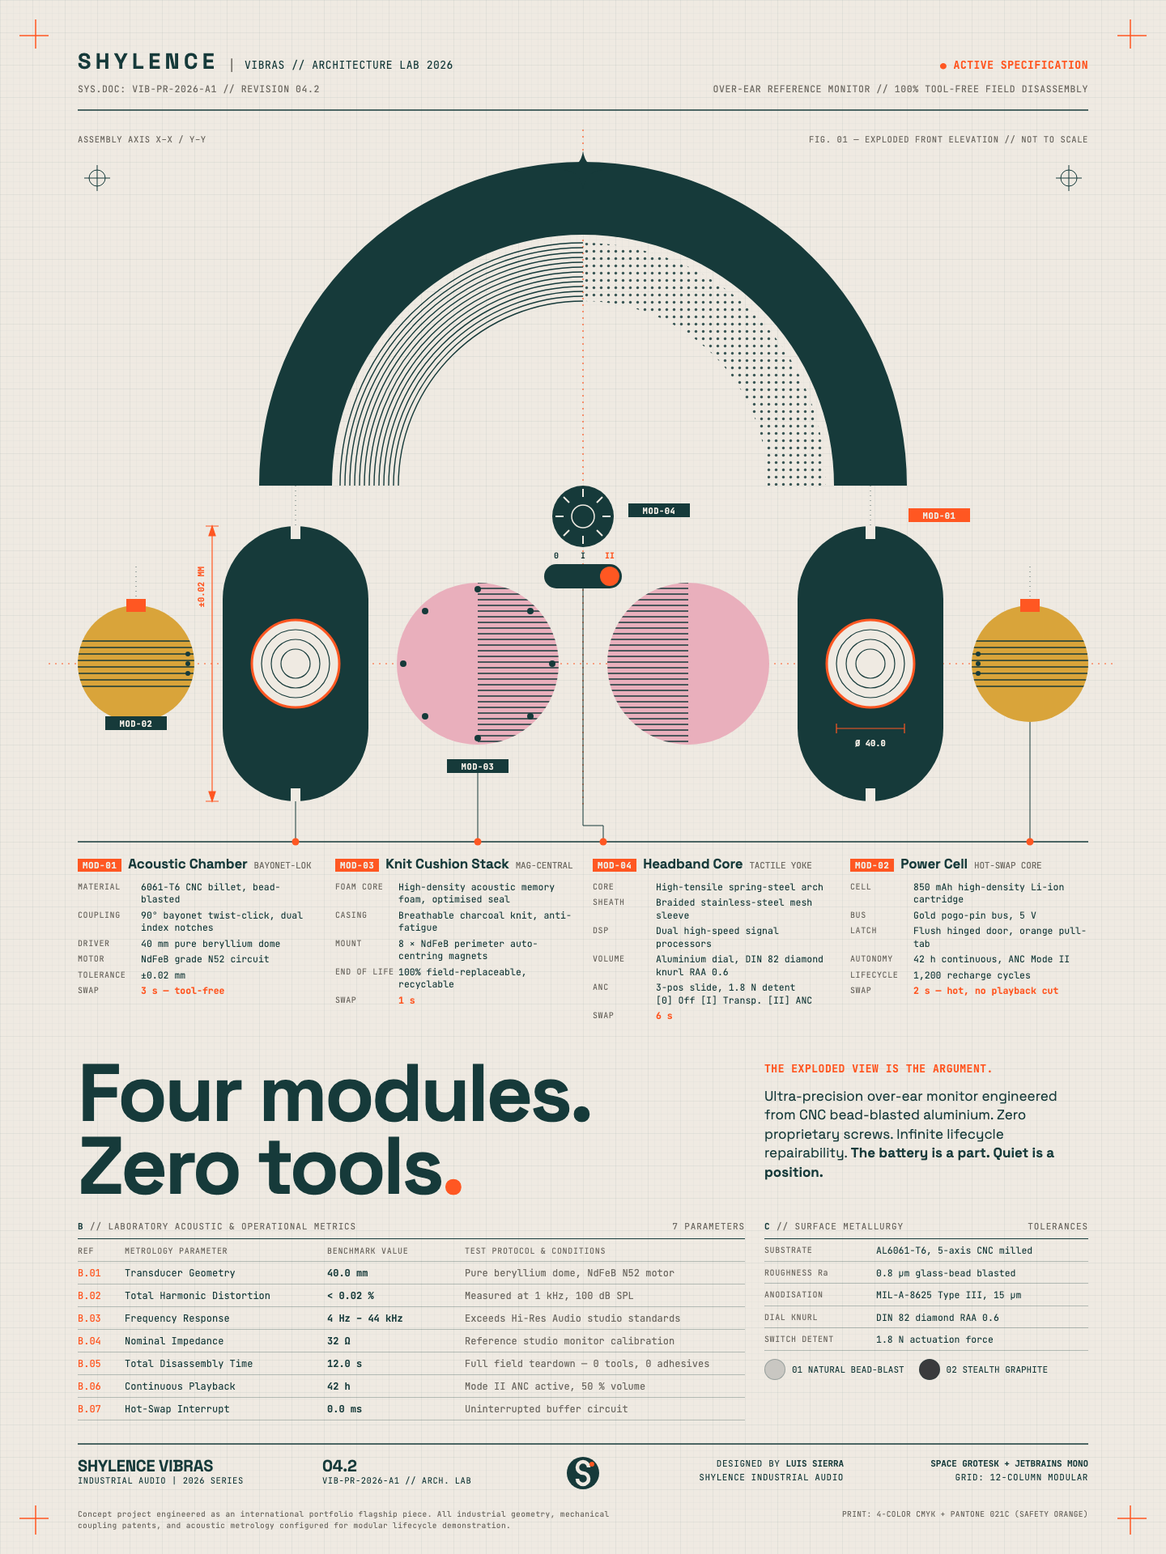
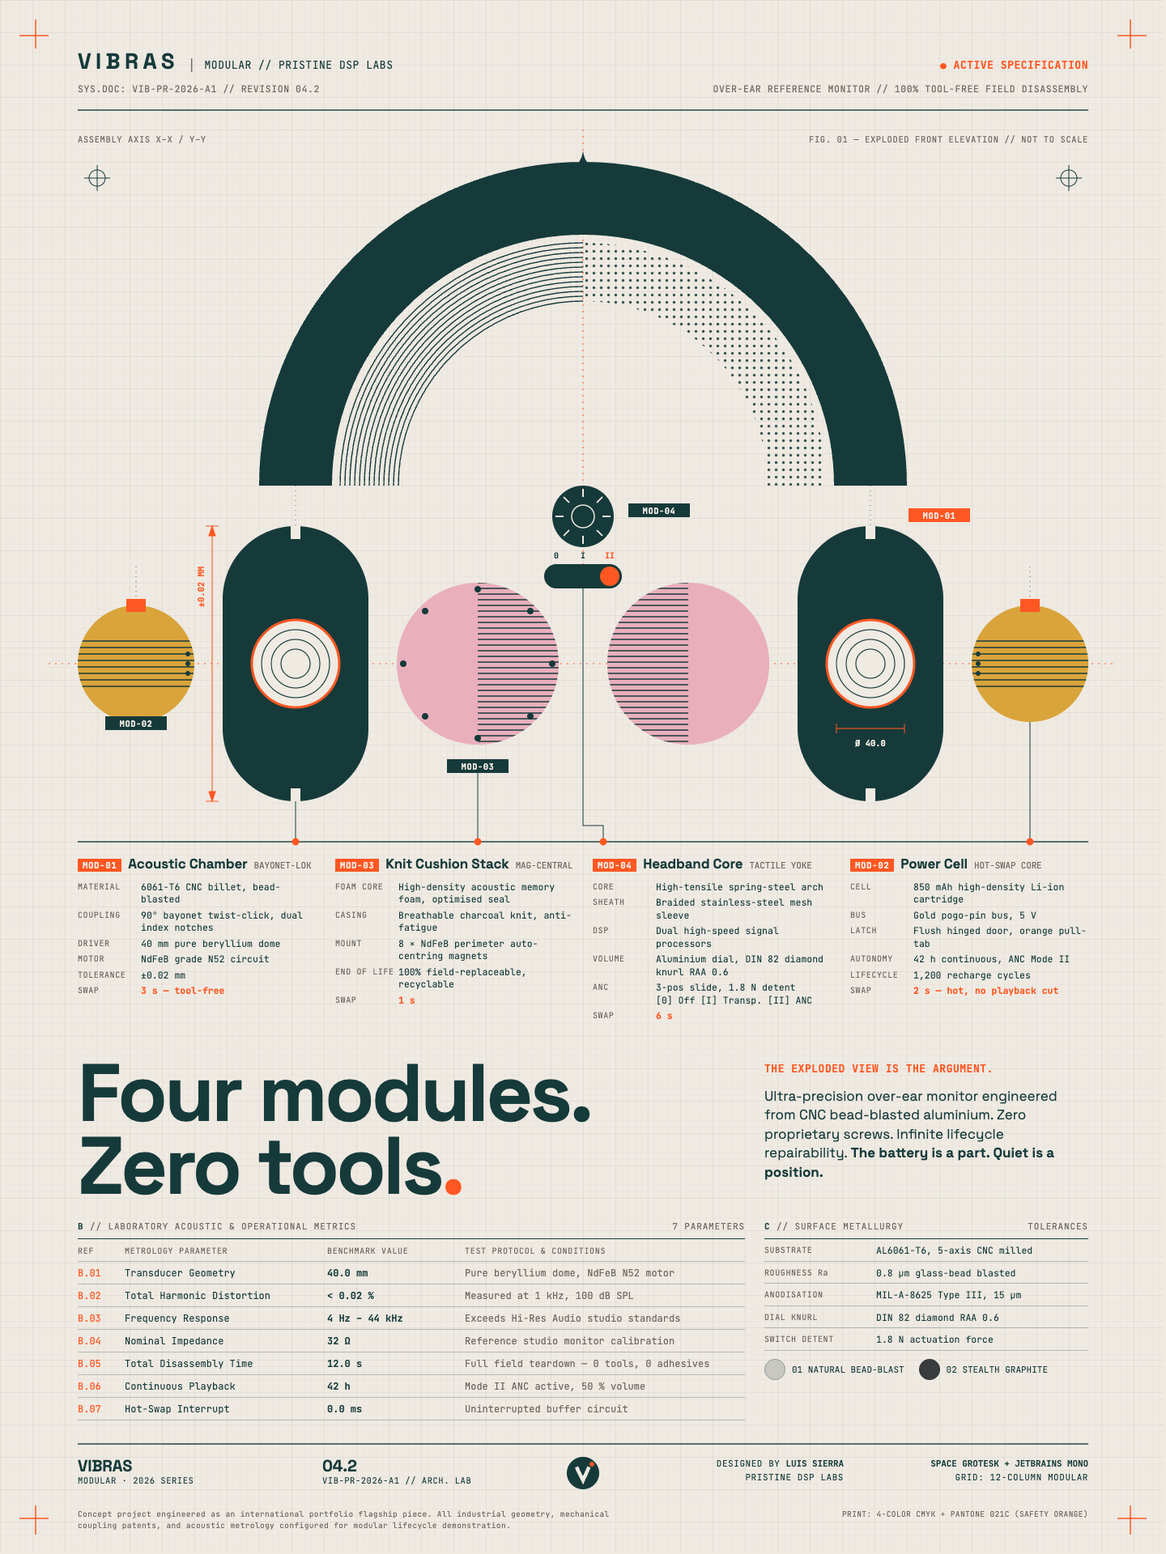
feat(vibras): rebrand SHYLENCE to VIBRAS across landing, explainer, and marketing assets

Changed region(s): [[0.3125, 0.1562, 0.5, 0.3125], [0.0625, 0.0312, 0.2188, 0.0625], [0.0625, 0.9375, 0.1875, 0.9688]]

diff --git a/project-headphones/docs/marketing/motion/vibras-explainer/index.html b/project-headphones/docs/marketing/motion/vibras-explainer/index.html
@@ -92,16 +92,15 @@ function drawPhoto(st, a) { // follows the dither's centre and scale, so the dis
 const off = document.createElement('canvas'); off.width = OW; off.height = OH;
 const oc = off.getContext('2d', { willReadFrequently: true });
 
-// ---------- SHYLENCE geometry (from index.html), one entry per stroke ----------
+// ---------- VIBRAS wordmark: stroke geometry in the old SVG language (100 u tall, 9 u stroke), one entry per stroke ----------
+const LOGO_W = 498;
 const LOGO = [
-  [0, 'M66 16C60 8 49 4.5 36 4.5C17 4.5 6 13 6 26C6 40 18 44 36 49C55 54 67 59 67 74C67 88 55 95.5 35 95.5C20 95.5 9 90 3 83'],
-  [81, 'M4.5 0V100'], [81, 'M65.5 0V100'], [81, 'M4.5 50H65.5'],
-  [171, 'M2 0L43.5 62L85 0'], [171, 'M43.5 62V100'],
-  [277, 'M4.5 0V95.5H65'],
-  [362, 'M0 4.5H64'], [362, 'M0 50H64'], [362, 'M0 95.5H64'],
-  [457, 'M4.5 100V4L75.5 96V0'],
-  [563, 'M83 18C76 9 63 4.5 48 4.5C22 4.5 5 24 5 50C5 76 22 95.5 48 95.5C63 95.5 76 91 83 82'],
-  [676, 'M0 4.5H64'], [676, 'M0 50H64'], [676, 'M0 95.5H64'],
+  [0, 'M2 0L43.5 100L85 0'],
+  [107, 'M4.5 0V100'],
+  [136, 'M4.5 0V100'], [136, 'M4.5 4.5H40C56 4.5 66 13 66 27C66 41 56 50 40 50H4.5'], [136, 'M4.5 50H44C61 50 71 59 71 72.75C71 86.5 61 95.5 44 95.5H4.5'],
+  [232, 'M4.5 100V4.5H42C59 4.5 69 14 69 28C69 42 59 51.5 42 51.5H4.5'], [232, 'M40 51.5L72 100'],
+  [326, 'M2 100L41 0L80 100'], [326, 'M16 64H66'],
+  [428, 'M66 16C60 8 49 4.5 36 4.5C17 4.5 6 13 6 26C6 40 18 44 36 49C55 54 67 59 67 74C67 88 55 95.5 35 95.5C20 95.5 9 90 3 83'],
 ].map(([tx, d]) => {
   const p = document.createElementNS('http://www.w3.org/2000/svg', 'path'); p.setAttribute('d', d);
   return { tx, path: new Path2D(d), len: p.getTotalLength() };
@@ -192,8 +191,8 @@ function drawLogo(t, x, y, s, bright) {
   const cB = `rgb(${lerp(0x4a, 0x8a, bright) | 0},${lerp(0x4a, 0x8a, bright) | 0},${lerp(0x4a, 0x8a, bright) | 0})`;
   ctx.save(); ctx.translate(x, y); ctx.scale(s, s); ctx.lineWidth = 9; ctx.lineCap = 'butt'; ctx.lineJoin = 'miter';
   LOGO.forEach((st, i) => {
-    const p = eio(seg(t, .12 + i * .06, .12 + i * .06 + .55)); if (p <= 0) return;
-    const g = ctx.createLinearGradient(-st.tx, 0, 740 - st.tx, 0); g.addColorStop(0, cA); g.addColorStop(1, cB);
+    const p = eio(seg(t, .12 + i * .09, .12 + i * .09 + .55)); if (p <= 0) return;
+    const g = ctx.createLinearGradient(-st.tx, 0, LOGO_W - st.tx, 0); g.addColorStop(0, cA); g.addColorStop(1, cB);
     ctx.save(); ctx.translate(st.tx, 0); ctx.strokeStyle = g;
     ctx.setLineDash([st.len + 1, st.len + 1]); ctx.lineDashOffset = (st.len + 1) * (1 - p);
     ctx.stroke(st.path); ctx.restore();
@@ -321,7 +320,7 @@ function drawCaptions(t) {
   }
   // end card
   const a = 8.95;
-  [['SHYLENCE · VIBRAS', 382, 14, `500 14px ${MONO}`, COL.orange, '2px'], ['The headphone', 470, 84, `300 84px ${SANS}`, COL.ink, '-1.5px'],
+  [['VIBRAS · MODULAR', 382, 14, `500 14px ${MONO}`, COL.orange, '2px'], ['The headphone', 470, 84, `300 84px ${SANS}`, COL.ink, '-1.5px'],
     ['that comes apart.', 562, 84, `300 84px ${SANS}`, COL.ink, '-1.5px'], ['4 MODULES  ·  0 SCREWS  ·  TOOL: NONE', 624, 15, `400 15px ${MONO}`, COL.g1, '1.5px']]
     .forEach(([s, y, size, font, col, ls], i) => maskLine(s, X, y, size, font, col, seg(t, a + i * .07, a + i * .07 + .45), 0, ls));
 }
@@ -330,11 +329,11 @@ function drawHeader(t) {
   const p = seg(t, 2.25, 2.7); if (p <= 0) return;
   ctx.save(); ctx.globalAlpha = p;
   ctx.fillStyle = COL.hair; ctx.fillRect(120, 96, 1680 * eo(p), 1);
-  ctx.fillStyle = 'rgba(255,255,255,.15)'; ctx.fillRect(284, 48, 1, 20);
-  ctx.globalAlpha = p * (.55 + .45 * Math.abs(Math.sin(t * 3))); ctx.fillStyle = COL.orange; ctx.beginPath(); ctx.arc(302, 58, 4, 0, Math.PI * 2); ctx.fill();
+  ctx.fillStyle = 'rgba(255,255,255,.15)'; ctx.fillRect(236, 48, 1, 20);
+  ctx.globalAlpha = p * (.55 + .45 * Math.abs(Math.sin(t * 3))); ctx.fillStyle = COL.orange; ctx.beginPath(); ctx.arc(254, 58, 4, 0, Math.PI * 2); ctx.fill();
   ctx.globalAlpha = p;
-  text('VIBRAS', 318, 64, `700 15px ${SANS}`, '#fff', 'left', '3px');
-  text('// ARCHITECTURE LAB 2026', 408, 63, `400 13px ${MONO}`, COL.dim, 'left', '1px');
+  text('MODULAR', 270, 63, `400 13px ${MONO}`, COL.dim, 'left', '3px');
+  text('// PRISTINE DSP LABS', 368, 63, `400 13px ${MONO}`, COL.dim, 'left', '1px');
   const f = Math.floor(t * FPS), tc = `00:${String(Math.floor(t)).padStart(2, '0')}:${String(f % FPS).padStart(2, '0')}`;
   text('FIG.01 — MODULAR TEARDOWN', 1640, 63, `400 13px ${MONO}`, COL.dim, 'right', '1px');
   text(tc, 1800, 63, `500 13px ${MONO}`, COL.ink, 'right', '1px');
@@ -417,9 +416,9 @@ function render(t) {
   drawPhoto(st, photo);
   drawImpact(t, st);
   drawCallout(t, st);
-  // SHYLENCE: centre stage → header slot
+  // VIBRAS: centre stage → header slot
   const lp = eio(seg(t, 1.9, 2.5));
-  drawLogo(t, lerp(442, 120, lp), lerp(470, 48, lp), lerp(1.4, .2, lp), 1 - lp);
+  drawLogo(t, lerp(960 - LOGO_W * .9, 120, lp), lerp(450, 48, lp), lerp(1.8, .2, lp), 1 - lp);
   drawHeader(t);
   drawHUD(t, st);
   drawCaptions(t);

diff --git a/project-headphones/docs/marketing/motion/animation-poster/index-threejs.html b/project-headphones/docs/marketing/motion/animation-poster/index-threejs.html
@@ -3,7 +3,7 @@
 <head>
 <meta charset="utf-8">
 <meta name="viewport" content="width=device-width,initial-scale=1">
-<title>SHYLENCE VIBRAS — Three.js</title>
+<title>VIBRAS MODULAR — Three.js</title>
 <style>
   html, body { margin: 0; height: 100%; background: #0A0508; overflow: hidden; }
   canvas { display: block; cursor: pointer; }
@@ -13,15 +13,17 @@
   }
   #hud { left: 16px; top: 14px; color: #fff; mix-blend-mode: difference; opacity: .6; }
   #telemetry { left: 50%; bottom: 4.5vh; transform: translateX(-50%); color: #fff; font-size: clamp(10px, 1.4vw, 15px); }
+  #subhead { color: #fff; font-size: clamp(11px, 1.5vw, 16px); letter-spacing: .6em; transform: translate(-50%, -50%); opacity: 0; }
   .label { color: #FF9ED2; font-size: 10px; transform: translate(-50%, -50%); opacity: 0; }
 </style>
 </head>
 <body>
 <div id="hud" class="mono"></div>
 <div id="telemetry" class="mono"></div>
+<div id="subhead" class="mono"></div>
 <script type="module">
 /* =====================================================================
-   SHYLENCE VIBRAS — Fanned Ribbon Engine (Three.js / WebGL)
+   VIBRAS MODULAR — Fanned Ribbon Engine (Three.js / WebGL)
    Same ribbon maths as the Canvas 2D build, lifted into 3D planes.
    Every slat is one instance of a unit box in an InstancedMesh.
    Mouse = parallax orbit.  Click / Space = restart.  ?t=12 = seek.
@@ -31,6 +33,7 @@ import * as THREE from 'https://esm.sh/three@0.170.0';
 const TAU = Math.PI * 2;
 const hud = document.getElementById('hud');
 const telemetryEl = document.getElementById('telemetry');
+const subheadEl = document.getElementById('subhead');
 
 // ---------- palette ----------
 const PHASE1_BG = '#0A0508';
@@ -139,33 +142,35 @@ HP.push(new Ribbon3(polyRibbon([[-360, 440], [360, 440]], 0), 54, PLANE_XY, { de
 HP.push(new Ribbon3(polyRibbon([[-360, 440], [360, 440]], 0), 120, PLANE_XY, { delay: 1.05, tone: 1, mode: 'axis', sp: 8, seed: 5.9 })); // base plate depth
 
 const GLYPHS = {
+  V: [[[0, 0], [0, 1.6], [1, 3], [2, 1.6], [2, 0]]],
+  I: [[[0, 0], [2, 0]], [[1, 0], [1, 3]], [[0, 3], [2, 3]]],
+  B: [[[0, 1.5], [1.6, 1.5], [1.6, 0], [0, 0], [0, 3], [2, 3], [2, 1.5], [1.4, 1.5]]],
+  R: [[[0, 3], [0, 0], [2, 0], [2, 1.5], [0.6, 1.5]], [[1.3, 1.5], [2, 3]]],
+  A: [[[0, 3], [0, 0], [2, 0], [2, 3]], [[0, 1.6], [2, 1.6]]],
   S: [[[2, 0], [0, 0], [0, 1.5], [2, 1.5], [2, 3], [0, 3]]],
-  H: [[[0, 0], [0, 3]], [[2, 0], [2, 3]], [[0, 1.5], [2, 1.5]]],
-  Y: [[[0, 0], [0, 1.5], [2, 1.5], [2, 0]], [[1, 1.5], [1, 3]]],
-  L: [[[0, 0], [0, 3], [2, 3]]],
-  E: [[[2, 0], [0, 0], [0, 3], [2, 3]], [[0, 1.5], [1.7, 1.5]]],
-  N: [[[0, 3], [0, 0], [2, 0], [2, 3]]],
-  C: [[[2, 0], [0, 0], [0, 3], [2, 3]]],
 };
 const BRAND = [];
 {
-  const u = 30, W = u * 0.72, gap = u * 0.95, word = 'SHYLENCE';
+  const u = 36, W = u * 0.72, gap = u * 0.95, word = 'VIBRAS';
   const total = word.length * 2 * u + (word.length - 1) * gap;
   word.split('').forEach((ch, li) => {
-    const ox = -total / 2 + li * (2 * u + gap), oy = -565;
+    const ox = -total / 2 + li * (2 * u + gap), oy = -600;
     for (const stroke of GLYPHS[ch]) {
       BRAND.push(new Ribbon3(polyRibbon(stroke.map(([x, y]) => [ox + x * u, oy + y * u]), W / 2), W, PLANE_XY,
         { delay: li * 0.12, sp: 4.6, seed: li, dep: 8 }));
     }
   });
 }
-const TELEMETRY = 'SHYLENCE // VIBRAS MODULAR // ARCHITECTURE LAB 2026';
+const TELEMETRY = 'VIBRAS // PRISTINE DSP LABS';
+const SUBHEAD = 'MODULAR';
 const LABELS = [
   { text: 'MOD-01 / HEADBAND', at: V3(0, 250, 0) },
   { text: 'MOD-02 / L-DRIVER', at: V3(-360, -392, 0) },
   { text: 'MOD-03 / R-DRIVER + DIAL', at: V3(360, -392, 0) },
   { text: 'MOD-04 / BATTERY BASE', at: V3(0, -505, 0) },
+  { text: SUBHEAD, at: V3(0, 458, 0), el: subheadEl, fade: [18.6, 19.4] },
 ].map(l => {
+  if (l.el) { l.el.textContent = l.text; return l; }
   const el = document.createElement('div');
   el.className = 'mono label'; el.textContent = l.text; document.body.appendChild(el);
   return { ...l, el };
@@ -187,7 +192,7 @@ function resize() {
   renderer.setSize(w, h);
   camera.aspect = w / h;
   const tanH = Math.tan(THREE.MathUtils.degToRad(camera.fov / 2));
-  const dist = Math.max(6.7 / tanH, 5.6 / (tanH * camera.aspect));
+  const dist = Math.max(6.95 / tanH, 5.6 / (tanH * camera.aspect));
   camera.position.set(0, 0, dist);
   camera.near = dist * 0.2; camera.far = dist * 3;
   scene.fog.near = dist - 2; scene.fog.far = dist + 26;
@@ -403,7 +408,7 @@ function render(t) {
     proj.copy(l.at).applyMatrix4(root.matrixWorld).project(camera);
     l.el.style.left = `${(proj.x * 0.5 + 0.5) * window.innerWidth}px`;
     l.el.style.top = `${(-proj.y * 0.5 + 0.5) * window.innerHeight}px`;
-    l.el.style.opacity = la * 0.9;
+    l.el.style.opacity = l.fade ? smooth(l.fade[0], l.fade[1], t) * (1 - fade) * 0.85 : la * 0.9;
   }
   hud.textContent = `${label} — ${t.toFixed(1).padStart(4, '0')}s`;
   renderer.render(scene, camera);

diff --git a/project-headphones/docs/marketing/motion/animation-poster/index-canvas2d.html b/project-headphones/docs/marketing/motion/animation-poster/index-canvas2d.html
@@ -3,7 +3,7 @@
 <head>
 <meta charset="utf-8">
 <meta name="viewport" content="width=device-width,initial-scale=1">
-<title>SHYLENCE VIBRAS — Canvas 2D</title>
+<title>VIBRAS MODULAR — Canvas 2D</title>
 <style>
   html, body { margin: 0; height: 100%; background: #0A0508; overflow: hidden; }
   canvas { display: block; width: 100vw; height: 100vh; cursor: pointer; }
@@ -15,12 +15,12 @@
 </style>
 </head>
 <body>
-<canvas id="c" aria-label="SHYLENCE VIBRAS modular headphones — generative animation"></canvas>
+<canvas id="c" aria-label="VIBRAS modular headphones — generative animation"></canvas>
 <div id="hud"></div>
 <script>
 'use strict';
 /* =====================================================================
-   SHYLENCE VIBRAS — Fanned Ribbon Engine (Vanilla Canvas 2D)
+   VIBRAS MODULAR — Fanned Ribbon Engine (Vanilla Canvas 2D)
    Timeline: 0–5s particles · 5–15s fanned ribbons · 15–20s lockup · loop
    Click / Space: restart.   ?t=12 : start at 12 s.
    ===================================================================== */
@@ -130,7 +130,7 @@ class Ribbon {
 }
 
 /* ---------- SCENE (design units, y down, origin centre) ---------- */
-const SCENE_W = 1000, SCENE_H = 1240;
+const SCENE_W = 1000, SCENE_H = 1290;
 
 // headphones
 const HP = [];
@@ -143,22 +143,21 @@ for (const sx of [-1, 1]) {
 HP.push(new Ribbon(circleRibbon(432, 322, 20), 40, { closed: true, delay: 0.85, tone: 1, seed: 4.4 }));      // volume dial
 HP.push(new Ribbon(polyRibbon([[-360, 440], [360, 440]], 0), 54, { delay: 0.95, seed: 5.2 }));              // battery base (MOD-04)
 
-// brandmark SHYLENCE — stroke glyphs on a 2×3 grid, corners filleted at r = W/2
+// brandmark VIBRAS — stroke glyphs on a 2×3 grid, corners filleted at r = W/2
 const GLYPHS = {
+  V: [[[0, 0], [0, 1.6], [1, 3], [2, 1.6], [2, 0]]],
+  I: [[[0, 0], [2, 0]], [[1, 0], [1, 3]], [[0, 3], [2, 3]]],
+  B: [[[0, 1.5], [1.6, 1.5], [1.6, 0], [0, 0], [0, 3], [2, 3], [2, 1.5], [1.4, 1.5]]],
+  R: [[[0, 3], [0, 0], [2, 0], [2, 1.5], [0.6, 1.5]], [[1.3, 1.5], [2, 3]]],
+  A: [[[0, 3], [0, 0], [2, 0], [2, 3]], [[0, 1.6], [2, 1.6]]],
   S: [[[2, 0], [0, 0], [0, 1.5], [2, 1.5], [2, 3], [0, 3]]],
-  H: [[[0, 0], [0, 3]], [[2, 0], [2, 3]], [[0, 1.5], [2, 1.5]]],
-  Y: [[[0, 0], [0, 1.5], [2, 1.5], [2, 0]], [[1, 1.5], [1, 3]]],
-  L: [[[0, 0], [0, 3], [2, 3]]],
-  E: [[[2, 0], [0, 0], [0, 3], [2, 3]], [[0, 1.5], [1.7, 1.5]]],
-  N: [[[0, 3], [0, 0], [2, 0], [2, 3]]],
-  C: [[[2, 0], [0, 0], [0, 3], [2, 3]]],
 };
 const BRAND = [];
 {
-  const u = 30, W = u * 0.72, gap = u * 0.95, word = 'SHYLENCE';
+  const u = 36, W = u * 0.72, gap = u * 0.95, word = 'VIBRAS';
   const total = word.length * 2 * u + (word.length - 1) * gap;
   word.split('').forEach((ch, li) => {
-    const ox = -total / 2 + li * (2 * u + gap), oy = -565;
+    const ox = -total / 2 + li * (2 * u + gap), oy = -600;
     for (const stroke of GLYPHS[ch]) {
       const pts = stroke.map(([x, y]) => [ox + x * u, oy + y * u]);
       BRAND.push(new Ribbon(polyRibbon(pts, W / 2), W, { delay: li * 0.12, sp: 4.6, seed: li }));
@@ -172,7 +171,8 @@ const LABELS = [
   { text: 'MOD-03 / R-DRIVER + DIAL', x: 300, y: 392 },
   { text: 'MOD-04 / BATTERY BASE', x: 0, y: 500 },
 ];
-const TELEMETRY = 'SHYLENCE // VIBRAS MODULAR // ARCHITECTURE LAB 2026';
+const TELEMETRY = 'VIBRAS // PRISTINE DSP LABS';
+const SUBHEAD = 'MODULAR';
 
 /* ---------- viewport ---------- */
 let dpr = 1, vw = 0, vh = 0, scale = 1;
@@ -352,6 +352,7 @@ function render(t) {
       phase: t * 2, flow: 14 * (1 - bc), breathe: 0.2 * (1 - bc),
     }));
     drawSolid(BRAND, ['#FFFFFF', '#FFFFFF'], smooth(18.5, 18.9, t));
+    monoText(SUBHEAD, 0, -456, 18, '#FFFFFF', smooth(18.6, 19.4, t) * 0.85, 'center', 0.6);
 
     const ty0 = smooth(17.4, 19.4, t), shown = Math.floor(TELEMETRY.length * ty0);
     const cursor = shown < TELEMETRY.length || Math.floor(t * 2.5) % 2 === 0 ? '▍' : ' ';

diff --git a/project-headphones/index.html b/project-headphones/index.html
@@ -18,23 +18,6 @@
   <!-- Technical Top Header -->
   <header class="fixed top-0 left-0 w-full z-50 flex items-center justify-between px-6 py-4 border-b border-white/5 bg-black/80 backdrop-blur-md text-xs font-mono tracking-wider">
     <div class="flex items-center gap-3">
-      <svg class="h-2.5 w-auto" viewBox="-3 -3 746 106" role="img" aria-label="Shylence" fill="none" stroke="url(#shylence-grad)" stroke-width="9" stroke-linecap="butt" stroke-linejoin="miter">
-        <defs>
-          <linearGradient id="shylence-grad" x1="0" y1="0" x2="740" y2="0" gradientUnits="userSpaceOnUse">
-            <stop offset="0" stop-color="#8a8a8a" />
-            <stop offset="1" stop-color="#4a4a4a" />
-          </linearGradient>
-        </defs>
-        <path d="M66 16C60 8 49 4.5 36 4.5C17 4.5 6 13 6 26C6 40 18 44 36 49C55 54 67 59 67 74C67 88 55 95.5 35 95.5C20 95.5 9 90 3 83" />
-        <path transform="translate(81 0)" d="M4.5 0V100M65.5 0V100M4.5 50H65.5" />
-        <path transform="translate(171 0)" d="M2 0L43.5 62L85 0M43.5 62V100" />
-        <path transform="translate(277 0)" d="M4.5 0V95.5H65" />
-        <path transform="translate(362 0)" d="M0 4.5H64M0 50H64M0 95.5H64" />
-        <path transform="translate(457 0)" d="M4.5 100V4L75.5 96V0" />
-        <path transform="translate(563 0)" d="M83 18C76 9 63 4.5 48 4.5C22 4.5 5 24 5 50C5 76 22 95.5 48 95.5C63 95.5 76 91 83 82" />
-        <path transform="translate(676 0)" d="M0 4.5H64M0 50H64M0 95.5H64" />
-      </svg>
-      <span class="w-px h-3 bg-white/15" aria-hidden="true"></span>
       <span class="w-2 h-2 rounded-full bg-orange-500 animate-pulse"></span>
       <span class="font-bold tracking-widest text-sm font-sans text-white">VIBRAS</span>
       <span class="text-neutral-500 hidden xl:inline">// ARCHITECTURE LAB 2026</span>
@@ -72,8 +55,9 @@
             <div class="inline-flex items-center gap-2 px-2.5 py-1 rounded bg-white/5 border border-white/10 text-[10px] font-mono text-neutral-400 mb-3">
               STATE-OF-THE-ART MODULAR HEADSET
             </div>
-            <h1 class="text-4xl md:text-6xl font-sans font-light tracking-tight text-white uppercase">
-              Vibras <span class="font-bold">Modular</span>
+            <h1 class="font-sans text-white uppercase">
+              <span class="block text-4xl md:text-6xl font-bold tracking-tight">Vibras</span>
+              <span class="block mt-2 text-xs md:text-sm font-mono font-normal tracking-[0.4em] text-neutral-400">Modular</span>
             </h1>
             <p class="mt-4 text-sm md:text-base text-neutral-400 font-sans leading-relaxed">
               Ultra-precision over-ear monitor built from CNC bead-blasted aluminum. 100% modular architecture. Zero proprietary screws. Infinite lifecycle repairability.

diff --git a/project-headphones/docs/marketing/vibras-promo-poster/vibras-promo-poster.html b/project-headphones/docs/marketing/vibras-promo-poster/vibras-promo-poster.html
@@ -240,7 +240,7 @@
 
 <!-- header -->
 <div class="abs hdr">
-  <div><span class="logo">SHYLENCE</span><span class="div">|</span><span class="mono">VIBRAS // ARCHITECTURE LAB 2026</span></div>
+  <div><span class="logo">VIBRAS</span><span class="div">|</span><span class="mono">MODULAR // PRISTINE DSP LABS</span></div>
   <div class="mono status">● ACTIVE SPECIFICATION</div>
 </div>
 <div class="abs hdr2 mono">
@@ -337,12 +337,12 @@
 
 <!-- footer -->
 <div class="abs foot">
-  <div><b>SHYLENCE VIBRAS</b><div class="mono">INDUSTRIAL AUDIO | 2026 SERIES</div></div>
+  <div><b>VIBRAS</b><div class="mono">MODULAR · 2026 SERIES</div></div>
   <div><b>04.2</b><div class="mono">VIB-PR-2026-A1 // ARCH. LAB</div></div>
   <div class="mark">
-    <svg width="40" height="40" viewBox="0 0 40 40"><circle cx="20" cy="20" r="20" fill="#163A3A"/><path d="M27 13A7 7 0 1 0 20 20A7 7 0 1 1 13 27" fill="none" stroke="#EFEAE2" stroke-width="4.5"/><circle cx="31" cy="9" r="3" fill="#FF5722"/></svg>
+    <svg width="40" height="40" viewBox="0 0 40 40"><circle cx="20" cy="20" r="20" fill="#163A3A"/><path d="M12 12.5L20 29L27.5 12.5" fill="none" stroke="#EFEAE2" stroke-width="4.5" stroke-linejoin="miter"/><circle cx="31" cy="9" r="3" fill="#FF5722"/></svg>
   </div>
-  <div class="r"><div class="mono" style="font-size:11px">DESIGNED BY <b style="display:inline;font-size:11px;font-family:'JetBrains Mono'">LUIS SIERRA</b><br>SHYLENCE INDUSTRIAL AUDIO</div></div>
+  <div class="r"><div class="mono" style="font-size:11px">DESIGNED BY <b style="display:inline;font-size:11px;font-family:'JetBrains Mono'">LUIS SIERRA</b><br>PRISTINE DSP LABS</div></div>
   <div class="r"><div class="mono" style="font-size:11px"><b style="display:inline;font-size:11px;font-family:'JetBrains Mono'">SPACE GROTESK + JETBRAINS MONO</b><br>GRID: 12-COLUMN MODULAR</div></div>
 </div>
 <div class="abs colo mono">

diff --git a/project-headphones/docs/marketing/motion/vibras-explainer/STORYBOARD.md b/project-headphones/docs/marketing/motion/vibras-explainer/STORYBOARD.md
@@ -2,7 +2,7 @@
 
 1920×1080 · 60 fps · 600 frames · every frame drawn by one `render(t)` on a 2D canvas.
 
-## Synthesis of the 5 references → SHYLENCE / Vibras
+## Synthesis of the 5 references → Vibras Modular
 
 | Reference | What it gives | How it lands in the brand |
 |---|---|---|
@@ -12,7 +12,7 @@
 | 03.14.36 — node sequencer on grainy dark | Rail, diamonds, playhead, scratched dark texture | Bottom sequencer rail maps the 10 s; background has brushed-metal diagonal streaks (bead-blasted aluminium) |
 | 03.18.22 — soft-square sine + glowing pills | Thin wave, sliding lit pills, one bloomed | The audio signal: thin soft-square sine, one bloomed **orange** pill |
 
-Brand rules kept: stage `#000`, surfaces `#0a0a0a / #121212`, hairlines `rgba(255,255,255,.08/.20)`, ink `#ededed`, graphite `#8a8a8a → #4a4a4a` (SHYLENCE gradient), **one** accent `#ff5722` (the ANC toggle colour — used only for the toggle, the playhead, active callouts and the signal pill). Type: Space Grotesk (light display), JetBrains Mono (telemetry). Copy from the production page.
+Brand rules kept: stage `#000`, surfaces `#0a0a0a / #121212`, hairlines `rgba(255,255,255,.08/.20)`, ink `#ededed`, graphite `#8a8a8a → #4a4a4a` (logo gradient), **one** accent `#ff5722` (the ANC toggle colour — used only for the toggle, the playhead, active callouts and the signal pill). Type: Space Grotesk (light display), JetBrains Mono (telemetry). Copy from the production page.
 
 Hand-made texture: 24 fps film grain (overlay + screen), 12 fps gate weave (±0.6 px), dust specks and a stray hair at 12 fps, wobbling hand-drawn brackets and arrows, dither thresholds that boil at 12 fps, brushed streaks, vignette.
 
@@ -20,8 +20,8 @@ Hand-made texture: 24 fps film grain (overlay + screen), 12 fps gate weave (±0.
 
 | Time | Look | Motion |
 |---|---|---|
-| 0.0–1.9 | Engineering sheet: 13 hairline columns, `+` marks, rail at the bottom. A soft-square sine crosses the stage with lit pills; SHYLENCE draws itself stroke by stroke, large, centred | Wave unrolls left→right; 15 strokes reveal with a 60 ms stagger (dash-offset) |
-| 1.9–2.5 | SHYLENCE docks top-left as the header mark; header rule, VIBRAS wordmark, FIG.01 label, timecode appear | Logo ease-in-out to 20 % scale; wave flattens and fades |
+| 0.0–1.9 | Engineering sheet: 13 hairline columns, `+` marks, rail at the bottom. A soft-square sine crosses the stage with lit pills; VIBRAS draws itself stroke by stroke, large, centred | Wave unrolls left→right; 10 strokes reveal with a 90 ms stagger (dash-offset) |
+| 1.9–2.5 | VIBRAS docks top-left as the header mark; header rule, MODULAR // PRISTINE DSP LABS, FIG.01 label, timecode appear | Logo ease-in-out to 20 % scale; wave flattens and fades |
 | 2.1–3.4 | The headphone assembles out of dither dots (random-order reveal). Caption: "Four decoupled subsystems." Telemetry HUD types on, top-right | Dots pop in; caption lines rise through masks |
 | 3.45–7.8 | Exploded view, one module per 1.1 s, cumulative: MOD-01 shells slide out (↻ 90°), MOD-02 battery drops (PULL), MOD-03 cushions slide in (8 magnets), MOD-04 band lifts (LIFT). Active module lit, others dimmed, orange corner brackets | Back-out ease with overshoot; captions swap by sliding up; HUD counters tick |
 | 7.85–8.9 | "Reassembled." Parts snap home, impact rings, 4 px shake; the signal wave returns behind the product with the orange pill | Ease-in collapse, damped shake, wave unrolls |
